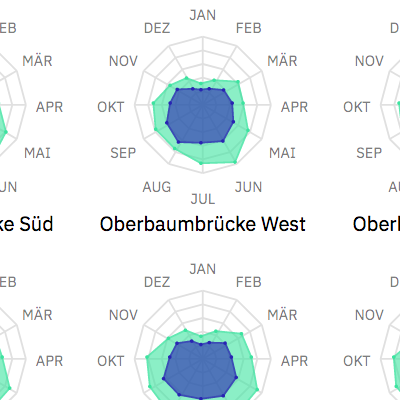
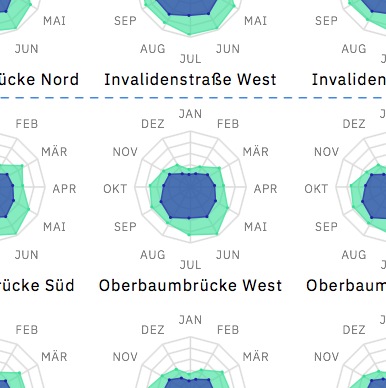
Veranstaltungen, Aktuelles, Fahrradzählstellen

diff --git a/source/aktuelles/index.html b/source/aktuelles/index.html
@@ -8,12 +8,12 @@ title: Aktuelles
 <div class="blog-posts-wrapper">
     <div class="blog-posts-intro">
         <h3 class="headline-02 primary mb-1 mt-4">
-            Aktuelle Blog Posts
+            Aktuelle Blogposts
         </h3>
 
-        <span class="headline-04 mb-12">
-            Hier finden Sie die neusten Blog Posts zur Open Data Informationsstelle
-        </span>
+        <!-- <span class="headline-04 mb-12"> -->
+            <!-- Hier finden Sie die neusten Blogposts der Open Data Informationsstelle. -->
+        <!-- </span> -->
     </div>
 
         {% assign items = site.categories.aktuelles | where: "visible", "true" %}

diff --git a/source/projekte/index.html b/source/projekte/index.html
@@ -12,7 +12,7 @@ title: Projekte
 
         <h4 class="headline-04 mb-5">Aus offenen Daten können vielfältige Anwendungen entstehen.
             <br>
-            Hier sind einige Beispiele aus Berlin:
+            Hier sind einige Projekte die Open Data von Berlin nutzen:
         </h4>
 
         <div class="row">

diff --git a/source/_posts/aktuelles/2020-02-17-odis-relaunch.md b/source/_posts/aktuelles/2020-02-17-odis-relaunch.md
@@ -8,14 +8,14 @@ visible: true
 
 # Willkommen auf der neuen ODIS-Seite!
 
-Wir freuen uns sehr, unsere neue Webpräsenz vorzustellen. Wir haben die ODIS-Seite überarbeitet, mit dem Ziel, mehr relevante Inhalte zu Open Data bereitzustellen und unsere Projekte sichtbarer zu machen.
+Wir freuen uns sehr, unsere neue Webpräsenz vorzustellen. Wir haben die ODIS-Seite mit dem Ziel überarbeitet, Inhalte zu offenen Daten bereitzustellen und unsere Open Data Projekte sichtbarer zu machen.
 
-Unter dem Reiter **Projekte**, gibt es eine Übersicht von unseren Hauptprojekten, inklusive diverse Visualisierungen und Anwendungen. 
+Unter dem Reiter **Projekte**, gibt es einen Einblick in unsere Hauptprojekte. Darunter sind diverse Visualisierungen und Anwendungen mit Open Data zu finden. 
 
-Unter **Ressourcen** gibt es eine Auswahl an Dokumente wie Leitfäden, FAQs und Checklists zu Themen wie Dateninventuren und Metadaten, die von ODIS explizit für Mitarbeiter*innen der Berliner Verwaltung entwickelt wurden. Hier sammeln wir auch Links zu externen Ressourcen, die wir als besonders empfehlenswert finden.
+Unter **Ressourcen** gibt es eine Auswahl an relevanten Dokumenten, wie Leitfäden, FAQs und Checklisten zu Themen wie Dateninventuren und Metadaten, die von ODIS insbesondere für Mitarbeiter*innen der Berliner Verwaltung entwickelt wurden. Hier haben wir auch eine Sammlung an Links zu externen Ressourcen zusammengestellt, die wir als besonders empfehlenswert erachten.
 
-Unter **Aktuelles** werden wir periodisch über Neuigkeiten bei ODIS und in der Berliner Verwaltung berichten.
+Unter **Aktuelles** werden wir regelmäßig über Neuigkeiten bei ODIS und in der Berliner Verwaltung berichten.
 
-Und unter **Veranstaltungen** gibt es eine Liste von kommenden und vergangenen ODIS-Veranstaltungen (wie Workshops, Schulungen und Infoveranstaltungen), inklusive Links zu den dazugehörigen Materialien, falls relevant.
+Und unter **Veranstaltungen** ist eine Übersicht der kommenden und vergangenen ODIS-Veranstaltungen (wie Workshops, Schulungen und Infoveranstaltungen) zu finden, inklusive eventueller Links zu zugehörigen Materialien.
 
-Diese Seite wird stets mit neuem Inhalt aktualisiert. Um über Neuigkeiten informiert zu bleiben, haben wir ein ODIS-Verteiler für Interessierten. Um in den Verteiler aufgenommen zu werden, bitten wir um eine kurze Mail an <a href="mailto:odis@technologiestiftung-berlin.de">odis@technologiestiftung-berlin.de.</a> 
+Diese Seite wird stets mit neuem Inhalt aktualisiert. Für Interessierte haben wir aber auch einen ODIS-Verteiler, mit dem Sie automatisch über Neuigkeiten informiert werden. Um in den Verteiler aufgenommen zu werden, senden Sie bitte eine kurze Mail an <a href="mailto:odis@technologiestiftung-berlin.de">odis@technologiestiftung-berlin.de.</a> 

diff --git a/source/_posts/aktuelles/2019-12-04-abschluss-geodaten.md b/source/_posts/aktuelles/2019-12-04-abschluss-geodaten.md
@@ -10,13 +10,13 @@ visible: false
 
 In diesem Jahr hat ODIS die Senatsverwaltung für Stadtentwicklung und Wohnen bei dem Projekt zur Integration bezirklicher Geodaten in die Geodateninfrastruktur (GDI) des Landes Berlin unterstützt.
 
-In der Berliner Verwaltung werden Geodaten über den [FIS-Broker](https://fbinter.stadt-berlin.de/fb/index.jsp) als Open Data bereitgestellt. Datenlieferanten können dabei alle Haupt- und Bezirksverwaltungen sein, die Geodaten verwalten.
-Neben vielen Geodatensätzen, die für ganz Berlin gebündelt vorliegen, gibt es zusätzlich Datensätze, die dezentral in der Verantwortlichkeit der Bezirke liegen. Dieses Projekt hat sich der Aufgabe angenommen, Prozesse zu entwickeln, um Geodatensätze aller Bezirke einheitlich bereitzustellen. Dies umfasst:
+In der Berliner Verwaltung werden Geodaten über den [FIS-Broker](https://fbinter.stadt-berlin.de/fb/index.jsp) als Open Data bereitgestellt. Datenlieferanten können dabei alle Haupt- und Bezirksverwaltungen sein, die Geodaten erfassen und verwalten.
+Neben einer Vielzahl an räumlichen Daten, die für ganz Berlin gesammelt vorliegen, gibt es zusätzlich Datensätze, die dezentral in der Verantwortlichkeit der Bezirke liegen. Dies führt dazu, dass die einzelnen bezirklichen Datensätze eine starke Heterogenität in Sachen Datenschema vorweisen können und sich somit nur schwer zusammenführen lassen. Dieses Projekt hat sich der Aufgabe angenommen, Prozesse zu entwickeln, um Geodatensätze aller Bezirke zu vereinheitlichen und leichter bereitstellen zu können. Dies umfasst:
 
-- Die Erstellung von Datenschemata für einzelne Datensätze
+- Erstellung von Datenschemata für ausgewählte Datensätze
 - Einholen der Datensätze über die Fachabteilungen
-- Aufbereitung der Datensätze entsprechend dem Datenschema
+- Aufbereitung der Datensätze entsprechend des Datenschemas
 - Zusammenführung der bezirklichen Datensätze zu einem gemeinsamen, berlinweiten Datensatz
-- Testweise Veröffentlichung des Datensatzes über den FIS-Broker
+- Testweise Veröffentlichung der Datensätze über den FIS-Broker
 
 In mehereren Workshops fand über das Jahr hinweg ein Austausch zwischen der Hauptverwaltung, den Vermessungsfachbereichen, sowie der Datenkoordination der Bezirke statt. Es wurden Datenschemata entwickelt, sowie mögliche Prozessabläufe diskutiert und getestet.

diff --git a/source/projekte/zaehlstellen/index.md b/source/projekte/zaehlstellen/index.md
@@ -7,8 +7,12 @@ visible: true
 indexImage: placeholder.png
 heroImage: zaehlstellen_hero.png
 ---
-**Besuche diese Visualisierung: [https://lab.technologiestiftung-berlin.de/projects/bikerides/de/](https://lab.technologiestiftung-berlin.de/projects/bikerides/de/)**
 
-In ganz Berlin gibt es 26 Zählstellen, wo täglich die Anzahl von vorbeifahrenden Fahrradfahrer*innen gemessen wird. Die stündliche Werte für jeden Kalendertag werden in einem offenen Datensatz veröffentlicht ([hier](https://www.berlin.de/senuvk/verkehr/lenkung/vlb/de/radzaehlungen.shtml) verfügbar). Wir haben diese Daten analysiert und visualisiert, um zu verstehen, wie der Radverkehr an bestimmten Orten je nach Uhrzeit, Wochentag, und Monat variiert.
+Um die langfristige Entwicklung des Radverkehrs in Berlin zu beobachten und zu analysieren, wird an insgesamt 26 Zählstellen automatisiert die Anzahl an vorbeifahrenden Fahrradfahrer*innen erfasst. Aus den stündlich zusammengefassten Messungen können Informationen über das Radverkehrsaufkommen auf verschiedenen Detailstufen abgeleitet werden.
 
-{% include macro-image-section-small.html src="zaehlstellen_screenshot.png" caption="Einige Erkenntnisse aus der Datenanalyse" %}
+In [dieser interaktiven Visualisierung](https://lab.technologiestiftung-berlin.de/projects/bikerides/de/) können mittels Netzdiagrammen die jährlichen, wöchentlichen und täglichen Fahrmuster der jeweiligen Standorte zielgerichtet und vergleichend untersucht werden.
+
+
+Die stündliche zusammengefassten Werte werden jedes Jahr als [offener Datensatz](https://www.berlin.de/senuvk/verkehr/lenkung/vlb/de/radzaehlungen.shtml) von der Senatsverwaltung für Umwelt, Verkehr und Klimaschutz veröffentlicht. 
+
+<center>>{% include macro-image-section-small.html src="zaehlstellen_screenshot.png" caption="Einige Erkenntnisse aus der Datenanalyse" %}</center>>

diff --git a/source/_posts/veranstaltungen/2019-12-03-QGIS-Workshop.md b/source/_posts/veranstaltungen/2019-12-03-QGIS-Workshop.md
@@ -26,8 +26,8 @@ In diesem initialen Workshop zur Datenvisualisierung wollen wir uns auf räumlic
 
 Im Rahmen des Workshops werden nur kostenlose, quelloffene Anwendungen genutzt. Primär wird dies QGIS sein. QGIS ist die weltweit meist genutzte OpenSource-Software für die Verarbeitung räumlicher Informationen. Die Software kann von Ihnen einfach auf dem eigenen Rechner installiert werden und so über den Workshop hinaus genutzt werden.
 
-Der Workshop richtet sich an Personen, die (interaktive) Karten für Berlin mit Daten der Verwaltung erstellen wollen. Er richtet sich an QGIS Einsteiger*innen ohne GIS Vorerfahrung. 
+Der Workshop richtet sich an Personen, die (interaktive) Karten für Berlin mit Daten der Verwaltung erstellen wollen und QGIS Einsteiger*innen ohne GIS Vorerfahrung. 
 Dabei richtet sich der Kurs in erster Linie an Mitarbeiterinnen und Mitarbeiter der Berliner Verwaltung. Wir bitten um Verständnis dafür, dass die Anzahl der Plätze begrenzt ist.
 Der Workshop ist kostenfrei.
 
-*Das Workshop Angebot ist eine Kooperation zwischen der Technologiestiftung Berlin und dem Amt für Statistik Berlin Brandenburg. Die Technologiestiftung Berlin unterstützt dieses Vorhaben im Rahmen der Open Data Informationsstelle (ODIS), welche durch die Senatsverwaltung für Wirtschaft, Energie und Betriebe (SenWEB) gefördert wird.*
+*Das Workshop-Angebot ist eine Kooperation zwischen der Technologiestiftung Berlin und dem Amt für Statistik Berlin Brandenburg. Die Technologiestiftung Berlin unterstützt dieses Vorhaben im Rahmen der Open Data Informationsstelle (ODIS), welche durch die Senatsverwaltung für Wirtschaft, Energie und Betriebe (SenWEB) gefördert wird.*

diff --git a/source/_posts/veranstaltungen/2019-12-04-QGIS-Workshop.md b/source/_posts/veranstaltungen/2019-12-04-QGIS-Workshop.md
@@ -26,8 +26,8 @@ In diesem initialen Workshop zur Datenvisualisierung wollen wir uns auf räumlic
 
 Im Rahmen des Workshops werden nur kostenlose, quelloffene Anwendungen genutzt. Primär wird dies QGIS sein. QGIS ist die weltweit meist genutzte OpenSource-Software für die Verarbeitung räumlicher Informationen. Die Software kann von Ihnen einfach auf dem eigenen Rechner installiert werden und so über den Workshop hinaus genutzt werden.
 
-Der Workshop richtet sich an Personen, die (interaktive) Karten für Berlin mit Daten der Verwaltung erstellen wollen. Er richtet sich an QGIS Einsteiger*innen ohne GIS Vorerfahrung. 
+Der Workshop richtet sich an Personen, die (interaktive) Karten für Berlin mit Daten der Verwaltung erstellen wollen und QGIS Einsteiger*innen ohne GIS Vorerfahrung. 
 Dabei richtet sich der Kurs in erster Linie an Mitarbeiterinnen und Mitarbeiter der Berliner Verwaltung. Wir bitten um Verständnis dafür, dass die Anzahl der Plätze begrenzt ist.
 Der Workshop ist kostenfrei.
 
-*Das Workshop Angebot ist eine Kooperation zwischen der Technologiestiftung Berlin und dem Amt für Statistik Berlin Brandenburg. Die Technologiestiftung Berlin unterstützt dieses Vorhaben im Rahmen der Open Data Informationsstelle (ODIS), welche durch die Senatsverwaltung für Wirtschaft, Energie und Betriebe (SenWEB) gefördert wird.*
+*Das Workshop-Angebot ist eine Kooperation zwischen der Technologiestiftung Berlin und dem Amt für Statistik Berlin Brandenburg. Die Technologiestiftung Berlin unterstützt dieses Vorhaben im Rahmen der Open Data Informationsstelle (ODIS), welche durch die Senatsverwaltung für Wirtschaft, Energie und Betriebe (SenWEB) gefördert wird.*

diff --git a/source/_posts/veranstaltungen/2020-02-26-open-data-lunch.md b/source/_posts/veranstaltungen/2020-02-26-open-data-lunch.md
@@ -14,6 +14,6 @@ adresse: Platz der Luftbrücke 4, Gebäude H2rund, 12101 Berlin
 # Open Data Lunch 
 
 
-Zum 3. Mal laden die Senatsverwaltung für Wirtschaft, Energie und Betriebe und die Open Data Informationsstelle (ODIS) ein zum "Open Data Lunch". Hier haben Verwaltungsmitarbeiter*innen der Berliner Verwaltung die Möglichkeit, über spannende Anwendungen von Open Data sowie Neuigkeiten aus der Verwaltung zu erfahren, sowie miteinander im Austausch über die Umsetzung von Open Data in der Verwaltung zu kommen. Dieses Mal findet der Lunch im CityLAB Berlin statt.
+Zum 3. Mal laden die Senatsverwaltung für Wirtschaft, Energie und Betriebe und die Open Data Informationsstelle (ODIS) zum "Open Data Lunch" ein. Hier haben Verwaltungsmitarbeiter*innen der Berliner Verwaltung die Möglichkeit, mehr über spannende Anwendungen von Open Data und Neuigkeiten aus der Verwaltung zu erfahren, sowie in den gegenseitigen Austausch über die Umsetzung von Open Data in der Verwaltung zu kommen. Dieses Mal findet der Lunch im CityLAB Berlin statt.
 
 Anmeldungen sind leider nicht mehr möglich.

diff --git a/source/_posts/veranstaltungen/2019-08-27-navigating-berlin.md b/source/_posts/veranstaltungen/2019-08-27-navigating-berlin.md
@@ -13,4 +13,4 @@ adresse: Platz der Luftbrücke 4, Gebäude H2rund, 12101 Berlin
 
 # Navigating Berlin's Open Data Landscape
 
-Diese Veranstaltung informiert Teilnehmenden über offizielle Quellen für offene Daten aus und über Berlin, wie beispielsweise statistische Daten oder räumliche Daten. Wir zeigen, wie die verschiedene Portale zu nutzen sind, und zeigen einige interessante Datensätze auf. Am Ende werden wir die Diskussion für alle anwesende öffnen, um zu verstehen, was die aktuelle Datenbedarfe in Berlin sind und wie die Verwaltung diese Bedarfe besser angehen kann.
+Diese Veranstaltung informiert die Teilnehmer*innen über offizielle Quellen für offene Daten aus und über Berlin. Dazu zählen beispielsweise statistische und räumliche Daten. Wir erklären wie die verschiedenen Portale genutzt werden können und zeigen einige interessante Datensätze auf. Am Ende werden wir die Diskussion für alle Anwesenden öffnen, um zu verstehen, was die aktuellen Nachfragen und Anforderungen an offene Daten in Berlin sind und wie die Verwaltung diesem Bedarf nachkommen kann.
